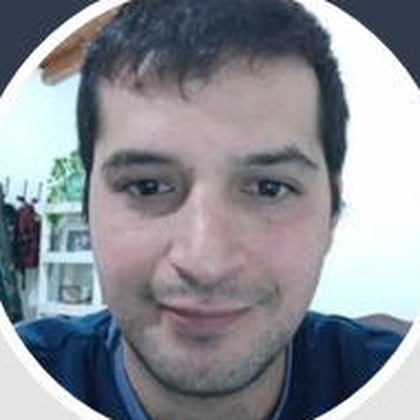
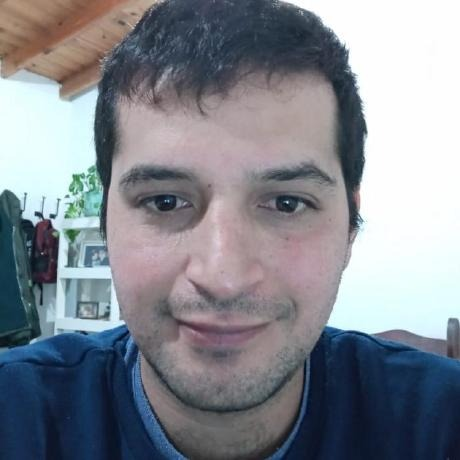
Use original profile photo instead of the one extracted from the CV

diff --git a/public/index.html b/public/index.html
@@ -103,7 +103,7 @@
         <div class="hero__visual reveal">
           <div class="avatar">
             <span class="avatar__clip">
-              <img src="/img/mario.png" alt="Portrait of Mario Quiroga" width="420" height="420" />
+              <img src="/img/mario.png" alt="Portrait of Mario Quiroga" width="460" height="460" />
             </span>
           </div>
           <div class="term" aria-hidden="true">

diff --git a/public/styles.css b/public/styles.css
@@ -375,8 +375,6 @@ strong { color: var(--text); font-weight: 600; }
   width: 100%;
   height: 100%;
   object-fit: cover;
-  /* the source photo has a ring baked in — zoom to hide it */
-  transform: scale(1.16);
 }
 
 .term {
